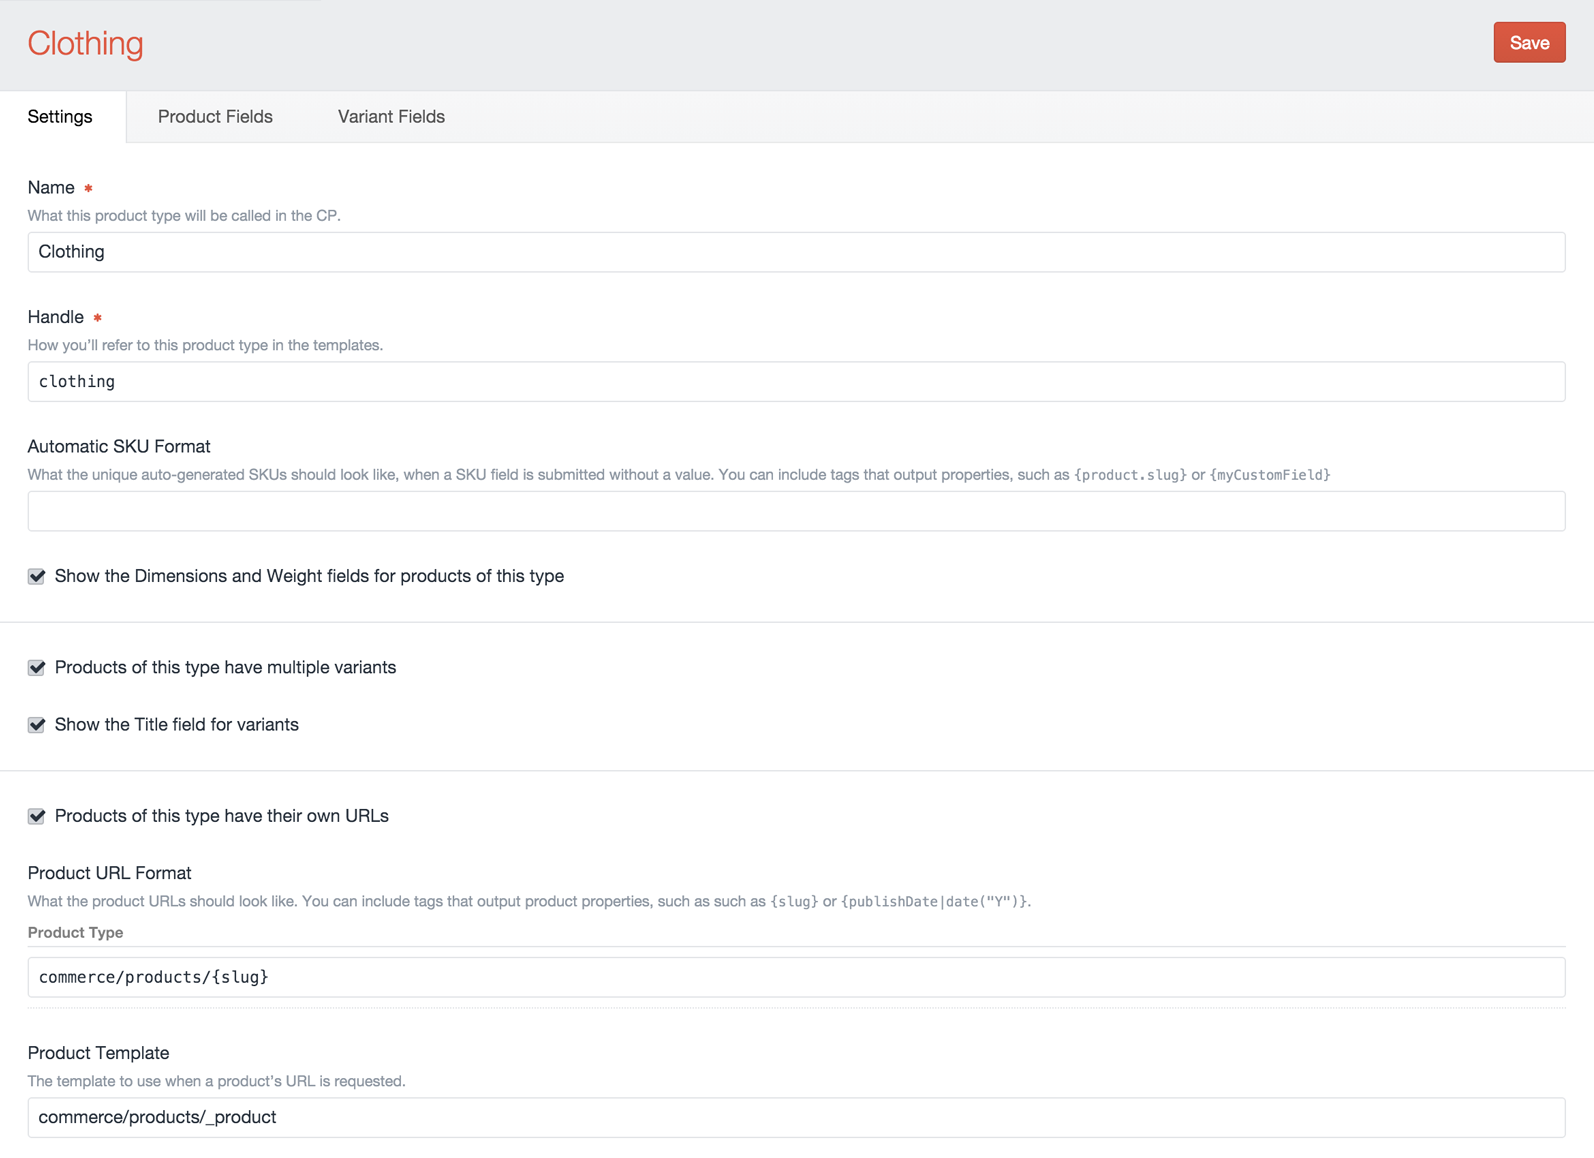
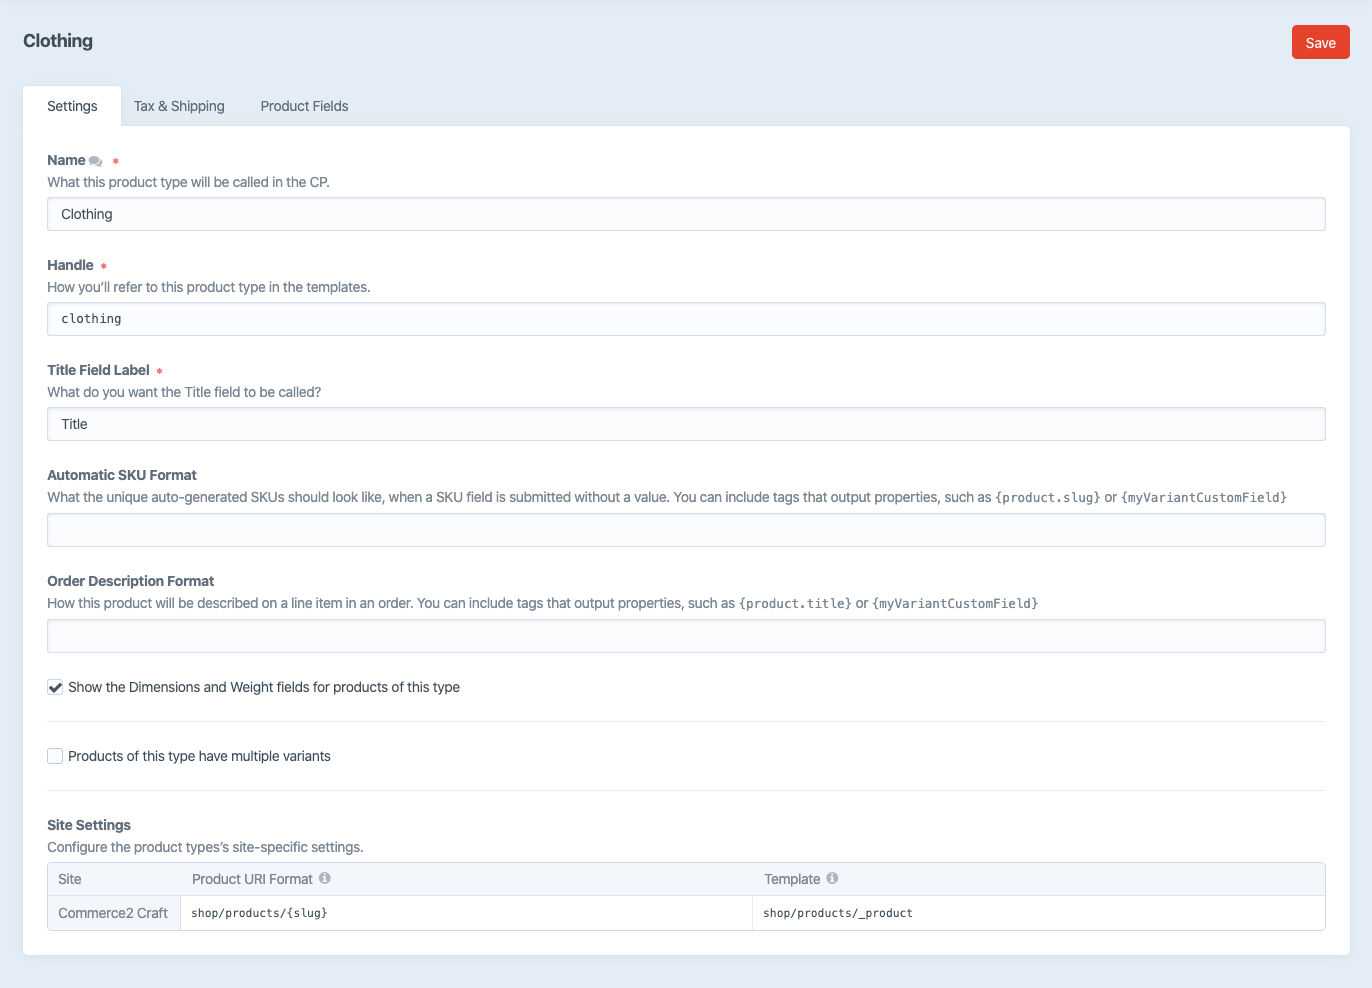
Product types docs update

Changed region(s): [[0.0, 0.0304, 1.0, 1.0], [0.9184, 0.0, 1.0, 0.0607]]

diff --git a/docs/commerce/3.x/product-types.md b/docs/commerce/3.x/product-types.md
@@ -19,9 +19,13 @@ The handle is how you will reference the product type in code. For example, in t
 ```twig
 {% set clothes = craft.products.type('clothes').all() %}
 ```
+### Title Field Label
+
+This setting allows you to change what the "Title" field label should be.
+
 ### Automatic SKU Format
 
-What the unique auto-generated SKUs should look like, when a SKU field is submitted without a value. You can include tags that output properties, such as {product.slug} or {myCustomField}
+What the unique auto-generated SKUs should look like, when a SKU field is submitted without a value. You can include tags that output properties, such as `{product.slug}` or `{myCustomField}`
 
 ::: tip
 The way you access properties within the SKU format will differ depending on whether or not the product type has variants. If your product type has multiple variants, then the SKU formats default `object` is the variant, otherwise it’s the product.
@@ -33,6 +37,10 @@ If a product type has an automatic SKU format the SKU field is not shown for new
 
 :::
 
+### Order Description Format
+
+How this product will be described on a line item in an order. You can include tags that output properties, such as `{product.title}` or `{myVariantCustomField}`
+
 ### Show the Dimensions and Weight fields
 
 Allows you to hide the weight and dimensions fields if they are not necessary for products of this type.
@@ -42,6 +50,12 @@ Allows you to hide the weight and dimensions fields if they are not necessary fo
 If you enable the product type to have multiple variants, you will see a new tab appear at the top of the page which allows you to configure the variant field layout.
 
 You also have the option to show the title input field or have it default to use a Title Format.
+
+### Show the Title field for variants
+
+Whether or not to show the "Variant Title" field when adding or editing variants. When true there is the further option to set the "Variant Title Field Label", this allows you to change what the "Variant Title" field label should be.
+
+If you are decide to not sure the "Variant Title" field you have the option to set the "Variant Title Format" allowing you to set the format for auto-generating variant titles. You can include tags that output variant properties, such as `{sku}` or `{myVariantsCustomField}`.
 
 ### Products of this type have their own URLs
 
